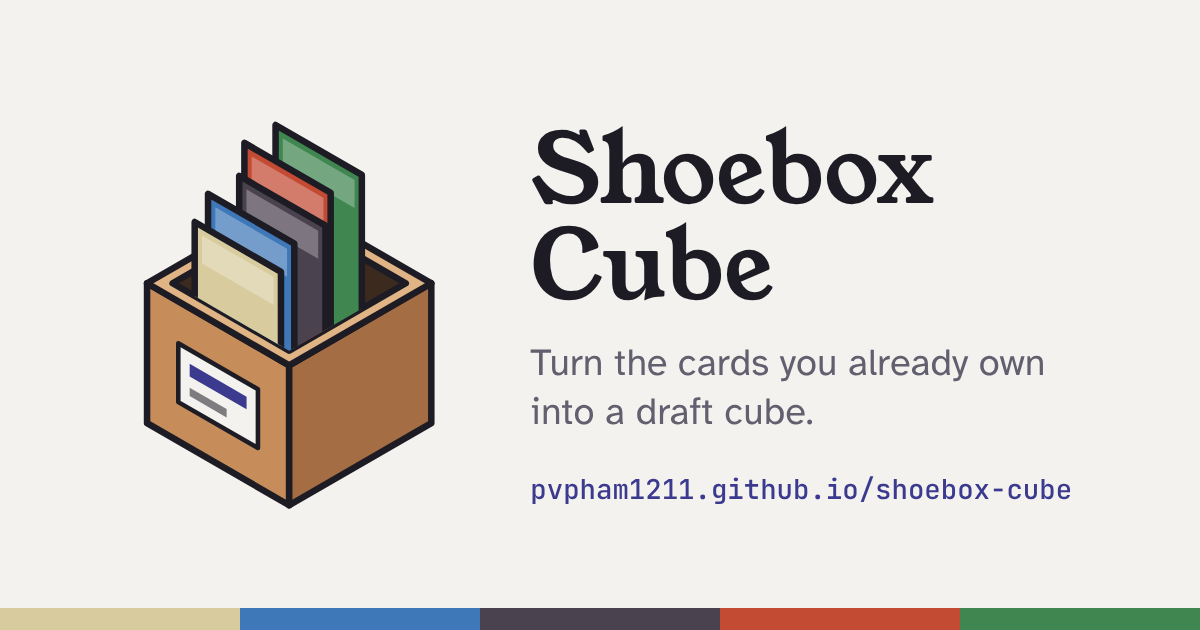
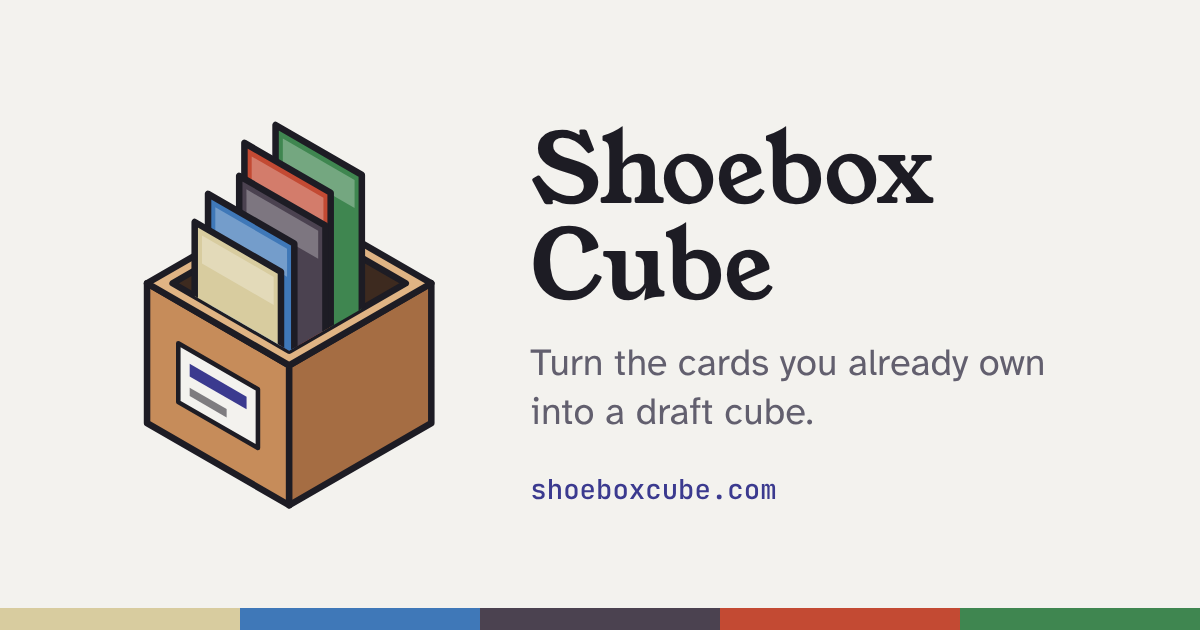
Move to shoeboxcube.com
Claude-Session: https://claude.ai/code/session_01WkRgw5GBQ1Jg1JExwVZSxf

Changed region(s): [[0.4317, 0.754, 0.8942, 0.8143]]

diff --git a/index.html b/index.html
@@ -9,8 +9,8 @@
 <meta property="og:type" content="website">
 <meta property="og:title" content="Shoebox Cube">
 <meta property="og:description" content="Turn the Magic cards you already own into a balanced draft cube. Free, no sign-up.">
-<meta property="og:url" content="https://pvpham1211.github.io/shoebox-cube/">
-<meta property="og:image" content="https://pvpham1211.github.io/shoebox-cube/social-preview.png">
+<meta property="og:url" content="https://shoeboxcube.com/">
+<meta property="og:image" content="https://shoeboxcube.com/social-preview.png">
 <meta property="og:image:width" content="1200"><meta property="og:image:height" content="630">
 <meta name="twitter:card" content="summary_large_image">
 <title>Shoebox Cube</title>

diff --git a/README.md b/README.md
@@ -1,5 +1,7 @@
 # Shoebox Cube
 
+https://shoeboxcube.com
+
 Build a balanced, singleton Magic: The Gathering draft cube from the cards you already own.
 
 Everything runs in your browser; your collection never leaves it.
